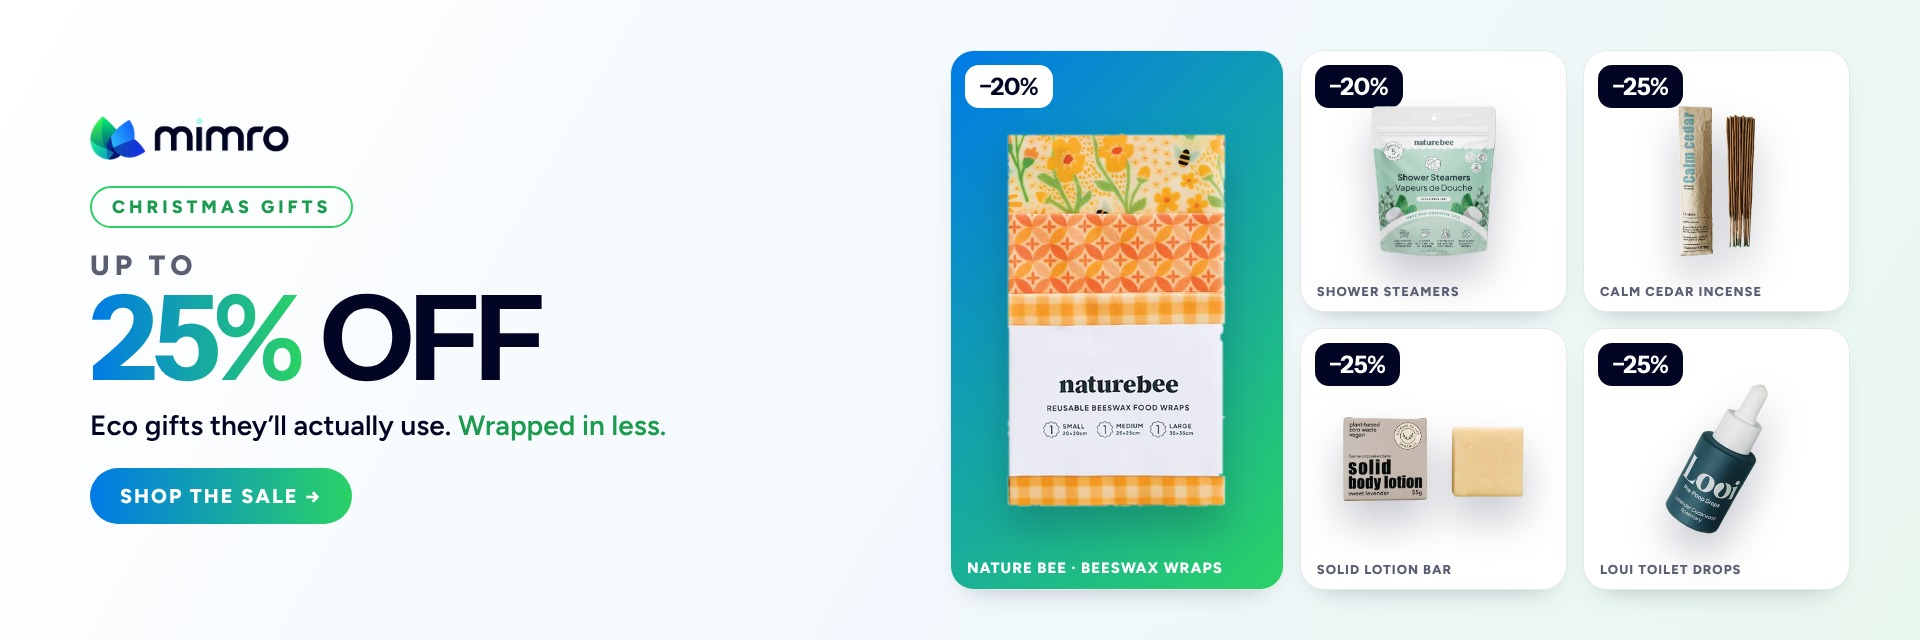
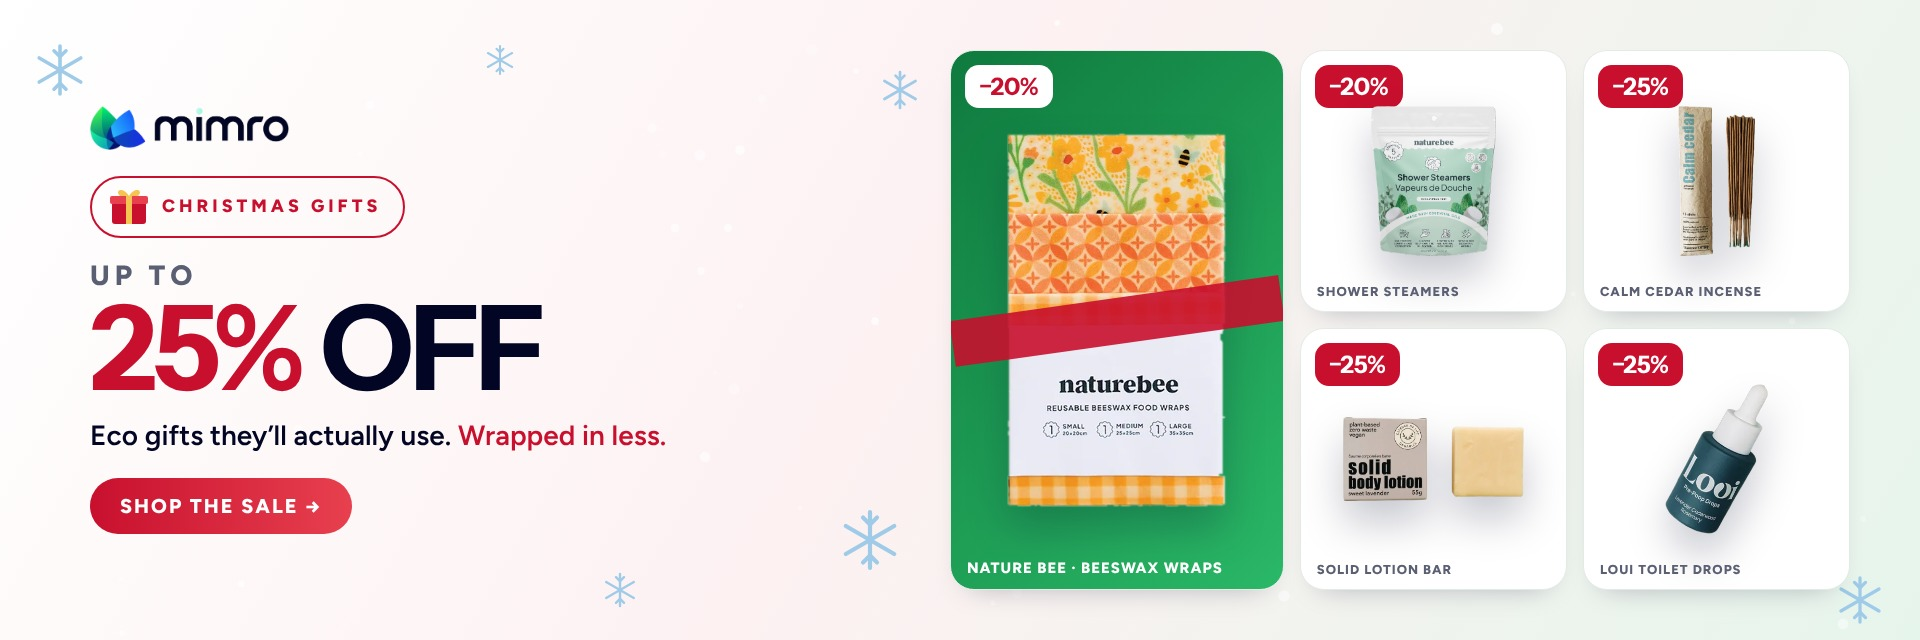
BB-Q4W6 Christmas slide: festive red/green gift theme
Claude-Session: https://claude.ai/code/session_01NAdrPTam75Ss9kLmxSuENc

diff --git a/marketing/billboards/bb-q4w6-xmas-banner.html b/marketing/billboards/bb-q4w6-xmas-banner.html
@@ -1,15 +1,15 @@
 <!doctype html><html><head><meta charset="utf-8"><style>@font-face{font-family:IS;src:url(src/fonts/InstrumentSans.ttf)}
 @font-face{font-family:FG;src:url(src/fonts/Figtree.ttf)}
 *{box-sizing:border-box;margin:0;padding:0}
-body{font-family:FG,sans-serif;background:linear-gradient(120deg,#ffffff 0%,#f2f8fd 55%,#e8f7ee 100%);color:#020624;position:relative;overflow:hidden}
-.kick{display:inline-block;font-weight:800;letter-spacing:4px;text-transform:uppercase;color:#1a9b4d;border:2px solid #2ad265;border-radius:999px}
-.grad{background:linear-gradient(90deg,#007ae7,#2ad265);-webkit-background-clip:text;background-clip:text;color:transparent}
-.btn{display:inline-block;background:linear-gradient(90deg,#007ae7,#2ad265);color:#fff;border-radius:999px;font-weight:800;letter-spacing:2px;text-transform:uppercase}
+body{font-family:FG,sans-serif;background:linear-gradient(120deg,#ffffff 0%,#fdf1f2 48%,#e6f5ec 100%);color:#020624;position:relative;overflow:hidden}
+.kick{display:inline-block;font-weight:800;letter-spacing:4px;text-transform:uppercase;color:#c8102e;border:2px solid #c8102e;border-radius:999px}
+.grad{color:#c8102e}
+.btn{display:inline-block;background:linear-gradient(90deg,#c8102e,#e8404f);color:#fff;border-radius:999px;font-weight:800;letter-spacing:2px;text-transform:uppercase}
 .tile{position:relative;border-radius:30px;background:#fff;border:1.5px solid #e4ebe6;box-shadow:0 14px 30px -20px rgba(2,6,36,.35);display:flex;align-items:center;justify-content:center;overflow:hidden}
 .tile img{object-fit:contain;filter:drop-shadow(0 22px 20px rgba(2,6,36,.22))}
-.tile.hero{background:linear-gradient(135deg,#007ae7,#2ad265)}
-.chip{position:absolute;top:20px;left:20px;font-family:IS;font-weight:700;color:#fff;background:#020624;border-radius:14px}
-.hero .chip{background:#fff;color:#020624}
+.tile.hero{background:linear-gradient(135deg,#0f7a3e,#2ab867)}
+.chip{position:absolute;top:20px;left:20px;font-family:IS;font-weight:700;color:#fff;background:#c8102e;border-radius:14px}
+.hero .chip{background:#fff;color:#c8102e}
 .lbl{position:absolute;left:22px;right:18px;bottom:18px;font-weight:800;letter-spacing:1px;text-transform:uppercase;color:#5a5f73;white-space:nowrap;overflow:hidden;text-overflow:ellipsis}
 .hero .lbl{color:#fff}
 
@@ -17,7 +17,7 @@ html,body{width:1920px;height:640px}
 
 .left{position:absolute;left:90px;top:0;bottom:0;width:760px;display:flex;flex-direction:column;justify-content:center}
 .logo{height:44px;margin-bottom:26px;align-self:flex-start}
-.kick{font-size:18px;padding:8px 20px;margin-bottom:20px;align-self:flex-start}
+.kick{font-size:18px;padding:6px 22px 6px 14px;margin-bottom:20px;align-self:flex-start}
 .upto{font-size:28px;font-weight:800;letter-spacing:5px;color:#5a5f73}
 .big{font-family:IS;font-weight:700;font-size:118px;line-height:.95;letter-spacing:-4px;white-space:nowrap}
 .sub{font-size:28px;font-weight:600;margin-top:14px;color:#020624}
@@ -26,4 +26,4 @@ html,body{width:1920px;height:640px}
 .hero{grid-row:span 2}
 .tile{border-radius:24px}.chip{font-size:24px;padding:7px 14px;top:14px;left:14px}.lbl{font-size:13px;left:16px;bottom:12px}.hero .lbl{font-size:15px}
 .t img{max-width:68%;max-height:58%}
-</style></head><body><div class="left"><img class="logo" src="src/logo.png"><div class="kick">Christmas gifts</div><div class="upto">UP TO</div><div class="big"><span class="grad">25%</span> OFF</div><div class="sub">Eco gifts they’ll actually use. <span style="color:#1a9b4d">Wrapped in less.</span></div><div class="btn">Shop the sale →</div></div><div class="grid"><div class="tile hero"><span class="chip">−20%</span><img src="src/beeswax.png" style="max-width:78%;max-height:70%"><span class="lbl">Nature Bee · Beeswax Wraps</span></div><div class="tile t"><span class="chip">−20%</span><img src="src/steamers.png"><span class="lbl">Shower Steamers</span></div><div class="tile t"><span class="chip">−25%</span><img src="src/incense.png"><span class="lbl">Calm Cedar Incense</span></div><div class="tile t"><span class="chip">−25%</span><img src="src/lotionbar.png"><span class="lbl">Solid Lotion Bar</span></div><div class="tile t"><span class="chip">−25%</span><img src="src/loui.png"><span class="lbl">Loui Toilet Drops</span></div></div></body></html>
+</style></head><body><svg style="position:absolute;left:0;top:0" width="1920" height="640" viewBox="0 0 1920 640"><circle cx="663" cy="154" r="3.6" fill="#fff" opacity="0.27"/><circle cx="1681" cy="548" r="2.4" fill="#fff" opacity="0.51"/><circle cx="1863" cy="519" r="2.9" fill="#fff" opacity="0.29"/><circle cx="856" cy="71" r="3.0" fill="#fff" opacity="0.50"/><circle cx="121" cy="579" r="2.5" fill="#fff" opacity="0.35"/><circle cx="1284" cy="596" r="5.8" fill="#fff" opacity="0.51"/><circle cx="812" cy="50" r="5.9" fill="#fff" opacity="0.27"/><circle cx="1758" cy="136" r="3.2" fill="#fff" opacity="0.31"/><circle cx="241" cy="584" r="3.2" fill="#fff" opacity="0.62"/><circle cx="370" cy="105" r="4.3" fill="#fff" opacity="0.54"/><circle cx="762" cy="99" r="4.2" fill="#fff" opacity="0.28"/><circle cx="122" cy="633" r="2.8" fill="#fff" opacity="0.56"/><circle cx="875" cy="321" r="3.9" fill="#fff" opacity="0.67"/><circle cx="740" cy="306" r="3.0" fill="#fff" opacity="0.33"/><circle cx="1597" cy="249" r="2.3" fill="#fff" opacity="0.39"/><circle cx="1013" cy="351" r="4.9" fill="#fff" opacity="0.38"/><circle cx="149" cy="120" r="4.0" fill="#fff" opacity="0.32"/><circle cx="700" cy="155" r="5.7" fill="#fff" opacity="0.44"/><circle cx="1368" cy="79" r="5.1" fill="#fff" opacity="0.51"/><circle cx="1792" cy="321" r="3.4" fill="#fff" opacity="0.41"/><circle cx="1017" cy="593" r="5.2" fill="#fff" opacity="0.28"/><circle cx="191" cy="276" r="3.9" fill="#fff" opacity="0.55"/><circle cx="124" cy="317" r="4.6" fill="#fff" opacity="0.70"/><circle cx="1683" cy="456" r="3.1" fill="#fff" opacity="0.42"/><circle cx="1369" cy="355" r="2.1" fill="#fff" opacity="0.46"/><circle cx="344" cy="625" r="2.5" fill="#fff" opacity="0.28"/><circle cx="1573" cy="294" r="2.5" fill="#fff" opacity="0.36"/><circle cx="800" cy="508" r="2.3" fill="#fff" opacity="0.45"/><circle cx="1125" cy="284" r="5.5" fill="#fff" opacity="0.62"/><circle cx="1769" cy="563" r="3.1" fill="#fff" opacity="0.44"/><circle cx="734" cy="389" r="5.8" fill="#fff" opacity="0.32"/><circle cx="360" cy="154" r="2.9" fill="#fff" opacity="0.36"/><circle cx="993" cy="603" r="2.7" fill="#fff" opacity="0.38"/><circle cx="298" cy="429" r="4.1" fill="#fff" opacity="0.52"/><circle cx="652" cy="128" r="4.8" fill="#fff" opacity="0.48"/><circle cx="1264" cy="55" r="3.8" fill="#fff" opacity="0.64"/><circle cx="1791" cy="572" r="3.6" fill="#fff" opacity="0.43"/><circle cx="212" cy="493" r="4.5" fill="#fff" opacity="0.28"/><circle cx="137" cy="213" r="3.8" fill="#fff" opacity="0.30"/><circle cx="1230" cy="53" r="2.4" fill="#fff" opacity="0.51"/><circle cx="1098" cy="103" r="5.8" fill="#fff" opacity="0.53"/><circle cx="144" cy="212" r="4.5" fill="#fff" opacity="0.32"/><circle cx="516" cy="355" r="4.4" fill="#fff" opacity="0.46"/><circle cx="236" cy="499" r="6.0" fill="#fff" opacity="0.46"/><circle cx="990" cy="319" r="2.3" fill="#fff" opacity="0.30"/><circle cx="701" cy="271" r="3.9" fill="#fff" opacity="0.56"/><circle cx="1057" cy="23" r="2.8" fill="#fff" opacity="0.68"/><circle cx="740" cy="150" r="4.8" fill="#fff" opacity="0.66"/><circle cx="1552" cy="540" r="3.2" fill="#fff" opacity="0.54"/><circle cx="186" cy="267" r="4.1" fill="#fff" opacity="0.66"/><circle cx="728" cy="228" r="4.1" fill="#fff" opacity="0.60"/><circle cx="675" cy="228" r="4.5" fill="#fff" opacity="0.60"/><circle cx="1553" cy="199" r="5.2" fill="#fff" opacity="0.62"/><circle cx="1515" cy="232" r="2.8" fill="#fff" opacity="0.47"/><circle cx="1497" cy="29" r="6.0" fill="#fff" opacity="0.61"/><circle cx="967" cy="265" r="2.8" fill="#fff" opacity="0.52"/><circle cx="705" cy="457" r="5.2" fill="#fff" opacity="0.58"/><circle cx="715" cy="373" r="2.3" fill="#fff" opacity="0.30"/><circle cx="962" cy="201" r="3.4" fill="#fff" opacity="0.47"/><circle cx="1843" cy="624" r="5.4" fill="#fff" opacity="0.47"/><g transform="translate(60,70) scale(1.2)" stroke="#9fcbe8" stroke-width="3" stroke-linecap="round" fill="none"><path d="M0-20V20M-17.3-10L17.3 10M-17.3 10L17.3-10"/><path d="M-5-16L0-11 5-16M-5 16L0 11 5 16" /></g><g transform="translate(870,540) scale(1.4)" stroke="#9fcbe8" stroke-width="3" stroke-linecap="round" fill="none"><path d="M0-20V20M-17.3-10L17.3 10M-17.3 10L17.3-10"/><path d="M-5-16L0-11 5-16M-5 16L0 11 5 16" /></g><g transform="translate(900,90) scale(0.9)" stroke="#9fcbe8" stroke-width="3" stroke-linecap="round" fill="none"><path d="M0-20V20M-17.3-10L17.3 10M-17.3 10L17.3-10"/><path d="M-5-16L0-11 5-16M-5 16L0 11 5 16" /></g><g transform="translate(1860,600) scale(1.1)" stroke="#9fcbe8" stroke-width="3" stroke-linecap="round" fill="none"><path d="M0-20V20M-17.3-10L17.3 10M-17.3 10L17.3-10"/><path d="M-5-16L0-11 5-16M-5 16L0 11 5 16" /></g><g transform="translate(620,590) scale(0.8)" stroke="#9fcbe8" stroke-width="3" stroke-linecap="round" fill="none"><path d="M0-20V20M-17.3-10L17.3 10M-17.3 10L17.3-10"/><path d="M-5-16L0-11 5-16M-5 16L0 11 5 16" /></g><g transform="translate(500,60) scale(0.7)" stroke="#9fcbe8" stroke-width="3" stroke-linecap="round" fill="none"><path d="M0-20V20M-17.3-10L17.3 10M-17.3 10L17.3-10"/><path d="M-5-16L0-11 5-16M-5 16L0 11 5 16" /></g></svg><div class="left"><img class="logo" src="src/logo.png"><div class="kick"><svg width="46" height="46" viewBox="0 0 46 46" style="margin-right:10px;vertical-align:middle"><rect x="6" y="18" width="34" height="22" rx="3" fill="#c8102e"/><rect x="4" y="12" width="38" height="8" rx="2" fill="#e8404f"/><rect x="20" y="12" width="6" height="28" fill="#f6c453"/><path d="M23 12C17 2 8 6 14 12ZM23 12C29 2 38 6 32 12Z" fill="#f6c453"/></svg>Christmas gifts</div><div class="upto">UP TO</div><div class="big"><span class="grad">25%</span> OFF</div><div class="sub">Eco gifts they’ll actually use. <span style="color:#c8102e">Wrapped in less.</span></div><div class="btn">Shop the sale →</div></div><div class="grid"><div class="tile hero"><span class="chip">−20%</span><img src="src/beeswax.png" style="max-width:78%;max-height:70%"><div style="position:absolute;left:0;right:0;top:46%;height:46px;background:rgba(200,16,46,.9);transform:rotate(-8deg);transform-origin:center"></div><span class="lbl">Nature Bee · Beeswax Wraps</span></div><div class="tile t"><span class="chip">−20%</span><img src="src/steamers.png"><span class="lbl">Shower Steamers</span></div><div class="tile t"><span class="chip">−25%</span><img src="src/incense.png"><span class="lbl">Calm Cedar Incense</span></div><div class="tile t"><span class="chip">−25%</span><img src="src/lotionbar.png"><span class="lbl">Solid Lotion Bar</span></div><div class="tile t"><span class="chip">−25%</span><img src="src/loui.png"><span class="lbl">Loui Toilet Drops</span></div></div></body></html>

diff --git a/marketing/billboards/bb-q4w6-xmas-promo.html b/marketing/billboards/bb-q4w6-xmas-promo.html
@@ -1,15 +1,15 @@
 <!doctype html><html><head><meta charset="utf-8"><style>@font-face{font-family:IS;src:url(src/fonts/InstrumentSans.ttf)}
 @font-face{font-family:FG;src:url(src/fonts/Figtree.ttf)}
 *{box-sizing:border-box;margin:0;padding:0}
-body{font-family:FG,sans-serif;background:linear-gradient(120deg,#ffffff 0%,#f2f8fd 55%,#e8f7ee 100%);color:#020624;position:relative;overflow:hidden}
-.kick{display:inline-block;font-weight:800;letter-spacing:4px;text-transform:uppercase;color:#1a9b4d;border:2px solid #2ad265;border-radius:999px}
-.grad{background:linear-gradient(90deg,#007ae7,#2ad265);-webkit-background-clip:text;background-clip:text;color:transparent}
-.btn{display:inline-block;background:linear-gradient(90deg,#007ae7,#2ad265);color:#fff;border-radius:999px;font-weight:800;letter-spacing:2px;text-transform:uppercase}
+body{font-family:FG,sans-serif;background:linear-gradient(120deg,#ffffff 0%,#fdf1f2 48%,#e6f5ec 100%);color:#020624;position:relative;overflow:hidden}
+.kick{display:inline-block;font-weight:800;letter-spacing:4px;text-transform:uppercase;color:#c8102e;border:2px solid #c8102e;border-radius:999px}
+.grad{color:#c8102e}
+.btn{display:inline-block;background:linear-gradient(90deg,#c8102e,#e8404f);color:#fff;border-radius:999px;font-weight:800;letter-spacing:2px;text-transform:uppercase}
 .tile{position:relative;border-radius:30px;background:#fff;border:1.5px solid #e4ebe6;box-shadow:0 14px 30px -20px rgba(2,6,36,.35);display:flex;align-items:center;justify-content:center;overflow:hidden}
 .tile img{object-fit:contain;filter:drop-shadow(0 22px 20px rgba(2,6,36,.22))}
-.tile.hero{background:linear-gradient(135deg,#007ae7,#2ad265)}
-.chip{position:absolute;top:20px;left:20px;font-family:IS;font-weight:700;color:#fff;background:#020624;border-radius:14px}
-.hero .chip{background:#fff;color:#020624}
+.tile.hero{background:linear-gradient(135deg,#0f7a3e,#2ab867)}
+.chip{position:absolute;top:20px;left:20px;font-family:IS;font-weight:700;color:#fff;background:#c8102e;border-radius:14px}
+.hero .chip{background:#fff;color:#c8102e}
 .lbl{position:absolute;left:22px;right:18px;bottom:18px;font-weight:800;letter-spacing:1px;text-transform:uppercase;color:#5a5f73;white-space:nowrap;overflow:hidden;text-overflow:ellipsis}
 .hero .lbl{color:#fff}
 
@@ -22,4 +22,4 @@ html,body{width:1100px;height:400px}
 .btn{margin-top:18px;align-self:flex-start;font-size:15px;padding:12px 22px}
 .r{position:absolute;right:30px;top:30px;width:520px;height:340px;display:grid;grid-template-columns:repeat(3,1fr);gap:12px}
 .tile{border-radius:20px}.chip{font-size:20px;padding:5px 11px;top:10px;left:10px}.lbl{font-size:11px;left:12px;bottom:10px}.t img{max-width:70%;max-height:55%}
-</style></head><body><div class="l"><div class="kick">Christmas gifts</div><div class="ttl">Up to 25%<br><span class="grad">off</span></div><div class="s">Eco gifts they’ll actually use.</div><div class="btn">Shop the sale →</div></div><div class="r"><div class="tile t"><span class="chip">−20%</span><img src="src/beeswax.png"><span class="lbl">Beeswax Wraps</span></div><div class="tile t"><span class="chip">−25%</span><img src="src/lotionbar.png"><span class="lbl">Lotion Bar</span></div><div class="tile t"><span class="chip">−20%</span><img src="src/steamers.png"><span class="lbl">Shower Steamers</span></div></div></body></html>
+</style></head><body><svg style="position:absolute;left:0;top:0" width="1100" height="400" viewBox="0 0 1100 400"><circle cx="704" cy="329" r="2.2" fill="#fff" opacity="0.55"/><circle cx="795" cy="400" r="3.4" fill="#fff" opacity="0.34"/><circle cx="365" cy="222" r="3.6" fill="#fff" opacity="0.40"/><circle cx="810" cy="237" r="2.8" fill="#fff" opacity="0.68"/><circle cx="325" cy="87" r="4.0" fill="#fff" opacity="0.26"/><circle cx="953" cy="335" r="2.3" fill="#fff" opacity="0.62"/><circle cx="971" cy="336" r="3.9" fill="#fff" opacity="0.32"/><circle cx="268" cy="10" r="2.0" fill="#fff" opacity="0.69"/><circle cx="210" cy="269" r="3.5" fill="#fff" opacity="0.31"/><circle cx="398" cy="108" r="2.1" fill="#fff" opacity="0.35"/><circle cx="1026" cy="123" r="3.5" fill="#fff" opacity="0.40"/><circle cx="858" cy="67" r="2.1" fill="#fff" opacity="0.58"/><circle cx="938" cy="339" r="3.2" fill="#fff" opacity="0.66"/><circle cx="861" cy="256" r="2.3" fill="#fff" opacity="0.32"/><circle cx="1045" cy="9" r="3.7" fill="#fff" opacity="0.60"/><circle cx="8" cy="397" r="3.6" fill="#fff" opacity="0.33"/><circle cx="969" cy="316" r="3.5" fill="#fff" opacity="0.50"/><circle cx="667" cy="349" r="3.0" fill="#fff" opacity="0.50"/><circle cx="217" cy="286" r="2.1" fill="#fff" opacity="0.34"/><circle cx="86" cy="395" r="2.2" fill="#fff" opacity="0.45"/><circle cx="57" cy="389" r="3.8" fill="#fff" opacity="0.28"/><circle cx="666" cy="313" r="3.9" fill="#fff" opacity="0.52"/><circle cx="408" cy="354" r="2.6" fill="#fff" opacity="0.48"/><circle cx="979" cy="259" r="3.9" fill="#fff" opacity="0.56"/><circle cx="531" cy="286" r="3.8" fill="#fff" opacity="0.34"/><circle cx="916" cy="70" r="2.8" fill="#fff" opacity="0.43"/><circle cx="647" cy="37" r="3.3" fill="#fff" opacity="0.44"/><circle cx="435" cy="342" r="2.6" fill="#fff" opacity="0.31"/><circle cx="316" cy="366" r="3.3" fill="#fff" opacity="0.41"/><circle cx="518" cy="70" r="3.9" fill="#fff" opacity="0.35"/><circle cx="192" cy="203" r="3.8" fill="#fff" opacity="0.32"/><circle cx="458" cy="82" r="3.4" fill="#fff" opacity="0.70"/><circle cx="827" cy="173" r="2.8" fill="#fff" opacity="0.41"/><circle cx="188" cy="369" r="2.7" fill="#fff" opacity="0.40"/><circle cx="939" cy="225" r="3.4" fill="#fff" opacity="0.42"/><circle cx="1059" cy="319" r="2.6" fill="#fff" opacity="0.68"/><circle cx="231" cy="117" r="3.9" fill="#fff" opacity="0.30"/><circle cx="543" cy="139" r="2.1" fill="#fff" opacity="0.60"/><circle cx="553" cy="386" r="2.3" fill="#fff" opacity="0.44"/><circle cx="529" cy="207" r="2.3" fill="#fff" opacity="0.66"/><circle cx="1012" cy="358" r="2.7" fill="#fff" opacity="0.38"/><circle cx="375" cy="217" r="3.8" fill="#fff" opacity="0.37"/><circle cx="34" cy="324" r="2.2" fill="#fff" opacity="0.37"/><circle cx="455" cy="34" r="2.5" fill="#fff" opacity="0.30"/><circle cx="23" cy="173" r="4.0" fill="#fff" opacity="0.44"/><circle cx="548" cy="318" r="2.3" fill="#fff" opacity="0.49"/><circle cx="488" cy="56" r="3.9" fill="#fff" opacity="0.37"/><circle cx="370" cy="103" r="3.9" fill="#fff" opacity="0.53"/><circle cx="1087" cy="388" r="2.4" fill="#fff" opacity="0.45"/><circle cx="364" cy="138" r="2.7" fill="#fff" opacity="0.26"/><circle cx="512" cy="18" r="2.0" fill="#fff" opacity="0.58"/><circle cx="388" cy="263" r="2.9" fill="#fff" opacity="0.67"/><circle cx="217" cy="337" r="3.6" fill="#fff" opacity="0.44"/><circle cx="1013" cy="279" r="3.7" fill="#fff" opacity="0.43"/><circle cx="1037" cy="157" r="3.4" fill="#fff" opacity="0.69"/><circle cx="701" cy="101" r="3.7" fill="#fff" opacity="0.57"/><circle cx="286" cy="207" r="4.0" fill="#fff" opacity="0.69"/><circle cx="265" cy="7" r="2.1" fill="#fff" opacity="0.58"/><circle cx="523" cy="220" r="2.3" fill="#fff" opacity="0.29"/><circle cx="780" cy="259" r="3.3" fill="#fff" opacity="0.38"/><g transform="translate(40,40) scale(0.9)" stroke="#9fcbe8" stroke-width="3" stroke-linecap="round" fill="none"><path d="M0-20V20M-17.3-10L17.3 10M-17.3 10L17.3-10"/><path d="M-5-16L0-11 5-16M-5 16L0 11 5 16" /></g><g transform="translate(500,370) scale(1)" stroke="#9fcbe8" stroke-width="3" stroke-linecap="round" fill="none"><path d="M0-20V20M-17.3-10L17.3 10M-17.3 10L17.3-10"/><path d="M-5-16L0-11 5-16M-5 16L0 11 5 16" /></g><g transform="translate(1050,30) scale(0.8)" stroke="#9fcbe8" stroke-width="3" stroke-linecap="round" fill="none"><path d="M0-20V20M-17.3-10L17.3 10M-17.3 10L17.3-10"/><path d="M-5-16L0-11 5-16M-5 16L0 11 5 16" /></g><g transform="translate(520,40) scale(0.7)" stroke="#9fcbe8" stroke-width="3" stroke-linecap="round" fill="none"><path d="M0-20V20M-17.3-10L17.3 10M-17.3 10L17.3-10"/><path d="M-5-16L0-11 5-16M-5 16L0 11 5 16" /></g></svg><div class="l"><div class="kick">Christmas gifts</div><div class="ttl">Up to 25%<br><span class="grad">off</span></div><div class="s">Eco gifts they’ll actually use.</div><div class="btn">Shop the sale →</div></div><div class="r"><div class="tile t"><span class="chip">−20%</span><img src="src/beeswax.png"><span class="lbl">Beeswax Wraps</span></div><div class="tile t"><span class="chip">−25%</span><img src="src/lotionbar.png"><span class="lbl">Lotion Bar</span></div><div class="tile t"><span class="chip">−20%</span><img src="src/steamers.png"><span class="lbl">Shower Steamers</span></div></div></body></html>
